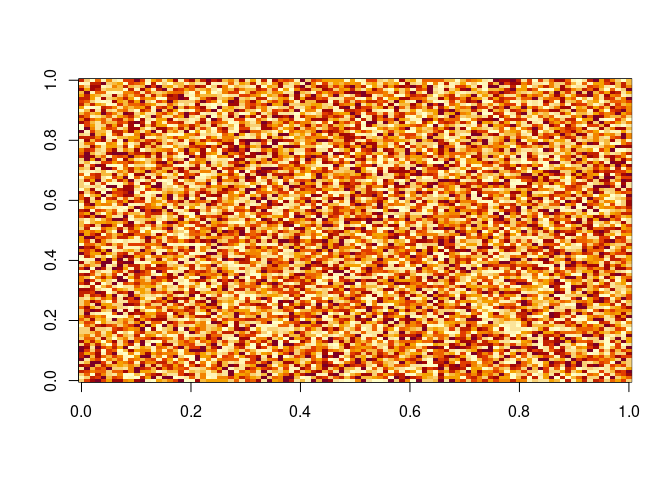
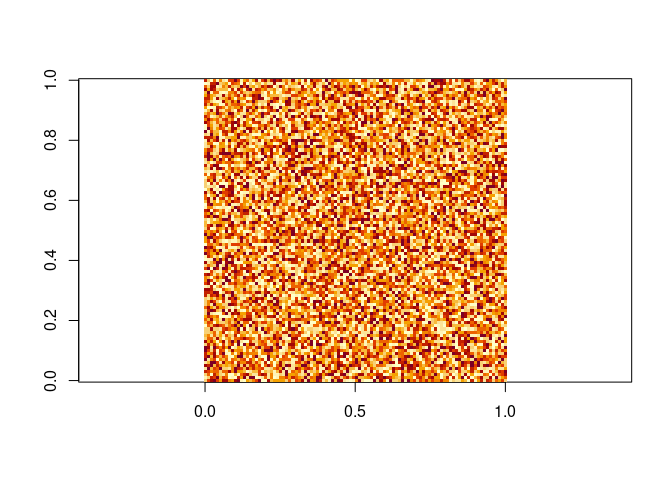
update example

diff --git a/README.md b/README.md
@@ -32,7 +32,7 @@ library(dwsR)
 
 data <- matrix(nrow = 100, ncol = 100, 
                data = runif(n = 100*100, min = 0, max = 10))
-image(data)
+image(data, asp = 1)
 ```
 
 <img src="man/figures/README-unnamed-chunk-3-1.png" width="100%" />
@@ -40,7 +40,7 @@ image(data)
 ``` r
 kernel <- exponential_kernel()
 convoluted <- pFocal(data = data, kernel = kernel, edge_value = 0)
-image(convoluted)
+image(convoluted, asp = 1)
 ```
 
 <img src="man/figures/README-unnamed-chunk-4-1.png" width="100%" />
